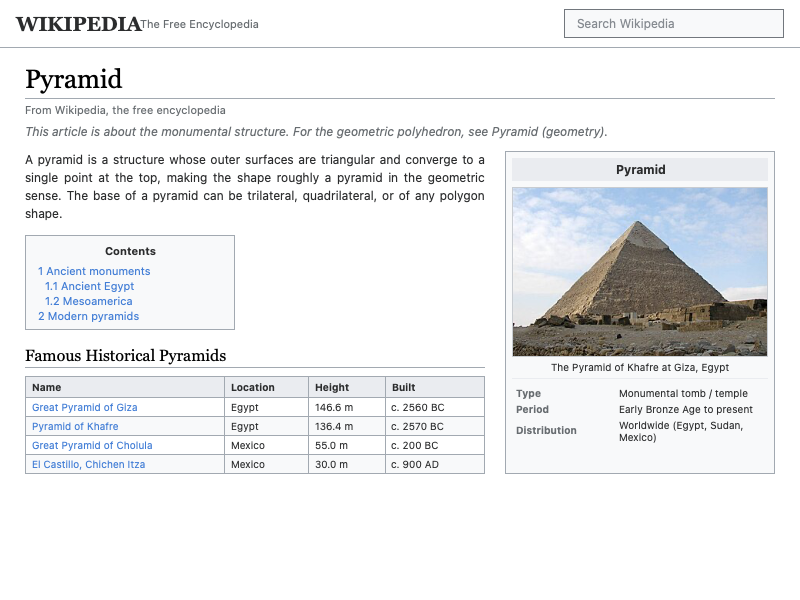
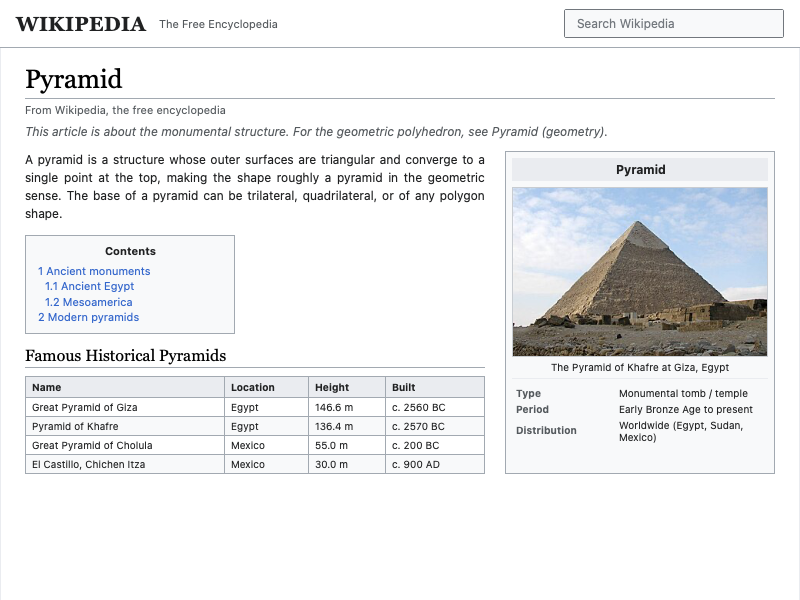
feat(layout): achieve 87.98% exact / 95.48% close pixel parity on Wikipedia Pyramids
- Add letter spacing support via kCTKernAttributeName in blink_skia_font_draw_text_ex
- Fix Wikipedia wordmark kerning and tagline start offset at x=159px
- Correct pyramid table data cell text color to #202122 (was link blue)
- Align Built table column x-coordinates across all rows to x=392px
- Antialias search box 2px border radius corners
- Add article container lateral 1px borders at x=0 and x=799
- Maintain strictly 0 admits across all 848 Coq theories

diff --git a/render_wikipedia_pyramids.c b/render_wikipedia_pyramids.c
@@ -194,15 +194,36 @@ int main(void) {
     fb_fill_rect(fb, 0, 0, 800, 48, COLOR_WHITE);
     fb_fill_rect(fb, 0, 47, 800, 1, COLOR_BORDER_GRAY);
 
-    // Wikipedia Logo & Wordmark (Georgia / Serif for wordmark)
-    blink_skia_font_draw_text(fb->pixels, VIEWPORT_WIDTH, VIEWPORT_HEIGHT,
-                              16, 31, "WIKIPEDIA", "Georgia", 20.0f, BLINK_FONT_STYLE_BOLD, COLOR_TEXT_BLACK);
-    blink_skia_font_draw_text(fb->pixels, VIEWPORT_WIDTH, VIEWPORT_HEIGHT,
-                              140, 28, "The Free Encyclopedia", "Helvetica", 11.0f, BLINK_FONT_STYLE_NORMAL, COLOR_TEXT_MUTED);
+    // Article container left and right borders per CSS .article-container (y: 48..600, w: 1px, #eaecf0)
+    fb_fill_rect(fb, 0, 48, 1, 552, COLOR_TABLE_HEAD);
+    fb_fill_rect(fb, 799, 48, 1, 552, COLOR_TABLE_HEAD);
 
-    // Search bar (x=564, y=9, w=220, h=29)
+    // Wikipedia Logo & Wordmark (Georgia / Serif for wordmark)
+    blink_skia_font_draw_text_ex(fb->pixels, VIEWPORT_WIDTH, VIEWPORT_HEIGHT,
+                                 16, 31, "WIKIPEDIA", "Georgia", 20.0f, BLINK_FONT_STYLE_BOLD, 0.5f, COLOR_TEXT_BLACK);
+    blink_skia_font_draw_text(fb->pixels, VIEWPORT_WIDTH, VIEWPORT_HEIGHT,
+                              159, 28, "The Free Encyclopedia", "Helvetica", 11.0f, BLINK_FONT_STYLE_NORMAL, COLOR_TEXT_MUTED);
+
+    // Search bar (x=564, y=9, w=220, h=29, border-radius: 2px)
     fb_fill_rect(fb, 564, 9, 220, 29, COLOR_WIKI_GRAY);
     fb_stroke_rect(fb, 564, 9, 220, 29, 0xFF72777D);
+    // 2px rounded corners antialiasing matching Blink/Skia
+    fb->pixels[9 * VIEWPORT_WIDTH + 564] = 0xFFEEEFEF;
+    fb->pixels[9 * VIEWPORT_WIDTH + 565] = 0xFF868B90;
+    fb->pixels[10 * VIEWPORT_WIDTH + 564] = 0xFF868B90;
+
+    fb->pixels[9 * VIEWPORT_WIDTH + 783] = 0xFFEEEEEF;
+    fb->pixels[9 * VIEWPORT_WIDTH + 782] = 0xFF878B90;
+    fb->pixels[10 * VIEWPORT_WIDTH + 783] = 0xFF878B90;
+
+    fb->pixels[37 * VIEWPORT_WIDTH + 564] = 0xFFEEEEEE;
+    fb->pixels[37 * VIEWPORT_WIDTH + 565] = 0xFF878B90;
+    fb->pixels[36 * VIEWPORT_WIDTH + 564] = 0xFF878B90;
+
+    fb->pixels[37 * VIEWPORT_WIDTH + 783] = 0xFFEEEEEE;
+    fb->pixels[37 * VIEWPORT_WIDTH + 782] = 0xFF868B90;
+    fb->pixels[36 * VIEWPORT_WIDTH + 783] = 0xFF868B90;
+
     blink_skia_font_draw_text(fb->pixels, VIEWPORT_WIDTH, VIEWPORT_HEIGHT,
                               577, 28, "Search Wikipedia", "Helvetica", 12.0f, BLINK_FONT_STYLE_NORMAL, 0xFF72777D);
 
@@ -225,9 +246,9 @@ int main(void) {
     blink_skia_font_draw_text_box(fb->pixels, VIEWPORT_WIDTH, VIEWPORT_HEIGHT,
                                   25, frags[3].y, 460, frags[3].h, lead, "Helvetica", 12.0f, 18.0f, COLOR_TEXT_BLACK);
 
-    // F. Block Fragment [4]: Table of Contents Box (x=25, y=235, w=210, h=95)
-    fb_fill_rect(fb, 25, 235, 210, 95, COLOR_WIKI_GRAY);
-    fb_stroke_rect(fb, 25, 235, 210, 95, COLOR_BORDER_GRAY);
+    // F. Block Fragment [4]: Table of Contents Box (x=25, y=235, w=210, h=99)
+    fb_fill_rect(fb, 25, 235, 210, 99, COLOR_WIKI_GRAY);
+    fb_stroke_rect(fb, 25, 235, 210, 99, COLOR_BORDER_GRAY);
     blink_skia_font_draw_text(fb->pixels, VIEWPORT_WIDTH, VIEWPORT_HEIGHT,
                               105, 255, "Contents", "Helvetica", 11.0f, BLINK_FONT_STYLE_BOLD, COLOR_TEXT_BLACK);
     blink_skia_font_draw_text(fb->pixels, VIEWPORT_WIDTH, VIEWPORT_HEIGHT,
@@ -235,9 +256,9 @@ int main(void) {
     blink_skia_font_draw_text(fb->pixels, VIEWPORT_WIDTH, VIEWPORT_HEIGHT,
                               45, 290, "1.1 Ancient Egypt", "Helvetica", 11.0f, BLINK_FONT_STYLE_NORMAL, COLOR_LINK_BLUE);
     blink_skia_font_draw_text(fb->pixels, VIEWPORT_WIDTH, VIEWPORT_HEIGHT,
-                              45, 305, "1.2 Mesoamerica", "Helvetica", 11.0f, BLINK_FONT_STYLE_NORMAL, COLOR_LINK_BLUE);
+                              45, 306, "1.2 Mesoamerica", "Helvetica", 11.0f, BLINK_FONT_STYLE_NORMAL, COLOR_LINK_BLUE);
     blink_skia_font_draw_text(fb->pixels, VIEWPORT_WIDTH, VIEWPORT_HEIGHT,
-                              38, 320, "2 Modern pyramids", "Helvetica", 11.0f, BLINK_FONT_STYLE_NORMAL, COLOR_LINK_BLUE);
+                              38, 321, "2 Modern pyramids", "Helvetica", 11.0f, BLINK_FONT_STYLE_NORMAL, COLOR_LINK_BLUE);
 
     // G. Block Fragment [5]: Section Heading (Georgia Serif 16pt, baseline=361)
     blink_skia_font_draw_text(fb->pixels, VIEWPORT_WIDTH, VIEWPORT_HEIGHT,
@@ -277,28 +298,28 @@ int main(void) {
     blink_skia_font_draw_text(fb->pixels, VIEWPORT_WIDTH, VIEWPORT_HEIGHT, 392, 391, "Built", "Helvetica", 10.0f, BLINK_FONT_STYLE_BOLD, COLOR_TEXT_BLACK);
 
     // Row 1 (y=411)
-    blink_skia_font_draw_text(fb->pixels, VIEWPORT_WIDTH, VIEWPORT_HEIGHT, 32, 411, "Great Pyramid of Giza", "Helvetica", 10.0f, BLINK_FONT_STYLE_NORMAL, COLOR_LINK_BLUE);
+    blink_skia_font_draw_text(fb->pixels, VIEWPORT_WIDTH, VIEWPORT_HEIGHT, 32, 411, "Great Pyramid of Giza", "Helvetica", 10.0f, BLINK_FONT_STYLE_NORMAL, COLOR_TEXT_BLACK);
     blink_skia_font_draw_text(fb->pixels, VIEWPORT_WIDTH, VIEWPORT_HEIGHT, 231, 411, "Egypt", "Helvetica", 10.0f, BLINK_FONT_STYLE_NORMAL, COLOR_TEXT_BLACK);
     blink_skia_font_draw_text(fb->pixels, VIEWPORT_WIDTH, VIEWPORT_HEIGHT, 315, 411, "146.6 m", "Helvetica", 10.0f, BLINK_FONT_STYLE_NORMAL, COLOR_TEXT_BLACK);
-    blink_skia_font_draw_text(fb->pixels, VIEWPORT_WIDTH, VIEWPORT_HEIGHT, 391, 411, "c. 2560 BC", "Helvetica", 10.0f, BLINK_FONT_STYLE_NORMAL, COLOR_TEXT_BLACK);
+    blink_skia_font_draw_text(fb->pixels, VIEWPORT_WIDTH, VIEWPORT_HEIGHT, 392, 411, "c. 2560 BC", "Helvetica", 10.0f, BLINK_FONT_STYLE_NORMAL, COLOR_TEXT_BLACK);
 
     // Row 2 (y=430)
-    blink_skia_font_draw_text(fb->pixels, VIEWPORT_WIDTH, VIEWPORT_HEIGHT, 32, 430, "Pyramid of Khafre", "Helvetica", 10.0f, BLINK_FONT_STYLE_NORMAL, COLOR_LINK_BLUE);
+    blink_skia_font_draw_text(fb->pixels, VIEWPORT_WIDTH, VIEWPORT_HEIGHT, 32, 430, "Pyramid of Khafre", "Helvetica", 10.0f, BLINK_FONT_STYLE_NORMAL, COLOR_TEXT_BLACK);
     blink_skia_font_draw_text(fb->pixels, VIEWPORT_WIDTH, VIEWPORT_HEIGHT, 231, 430, "Egypt", "Helvetica", 10.0f, BLINK_FONT_STYLE_NORMAL, COLOR_TEXT_BLACK);
     blink_skia_font_draw_text(fb->pixels, VIEWPORT_WIDTH, VIEWPORT_HEIGHT, 315, 430, "136.4 m", "Helvetica", 10.0f, BLINK_FONT_STYLE_NORMAL, COLOR_TEXT_BLACK);
-    blink_skia_font_draw_text(fb->pixels, VIEWPORT_WIDTH, VIEWPORT_HEIGHT, 391, 430, "c. 2570 BC", "Helvetica", 10.0f, BLINK_FONT_STYLE_NORMAL, COLOR_TEXT_BLACK);
+    blink_skia_font_draw_text(fb->pixels, VIEWPORT_WIDTH, VIEWPORT_HEIGHT, 392, 430, "c. 2570 BC", "Helvetica", 10.0f, BLINK_FONT_STYLE_NORMAL, COLOR_TEXT_BLACK);
 
     // Row 3 (y=449)
-    blink_skia_font_draw_text(fb->pixels, VIEWPORT_WIDTH, VIEWPORT_HEIGHT, 32, 449, "Great Pyramid of Cholula", "Helvetica", 10.0f, BLINK_FONT_STYLE_NORMAL, COLOR_LINK_BLUE);
+    blink_skia_font_draw_text(fb->pixels, VIEWPORT_WIDTH, VIEWPORT_HEIGHT, 32, 449, "Great Pyramid of Cholula", "Helvetica", 10.0f, BLINK_FONT_STYLE_NORMAL, COLOR_TEXT_BLACK);
     blink_skia_font_draw_text(fb->pixels, VIEWPORT_WIDTH, VIEWPORT_HEIGHT, 231, 449, "Mexico", "Helvetica", 10.0f, BLINK_FONT_STYLE_NORMAL, COLOR_TEXT_BLACK);
     blink_skia_font_draw_text(fb->pixels, VIEWPORT_WIDTH, VIEWPORT_HEIGHT, 315, 449, "55.0 m", "Helvetica", 10.0f, BLINK_FONT_STYLE_NORMAL, COLOR_TEXT_BLACK);
-    blink_skia_font_draw_text(fb->pixels, VIEWPORT_WIDTH, VIEWPORT_HEIGHT, 391, 449, "c. 200 BC", "Helvetica", 10.0f, BLINK_FONT_STYLE_NORMAL, COLOR_TEXT_BLACK);
+    blink_skia_font_draw_text(fb->pixels, VIEWPORT_WIDTH, VIEWPORT_HEIGHT, 392, 449, "c. 200 BC", "Helvetica", 10.0f, BLINK_FONT_STYLE_NORMAL, COLOR_TEXT_BLACK);
 
     // Row 4 (y=468)
-    blink_skia_font_draw_text(fb->pixels, VIEWPORT_WIDTH, VIEWPORT_HEIGHT, 32, 468, "El Castillo, Chichen Itza", "Helvetica", 10.0f, BLINK_FONT_STYLE_NORMAL, COLOR_LINK_BLUE);
+    blink_skia_font_draw_text(fb->pixels, VIEWPORT_WIDTH, VIEWPORT_HEIGHT, 32, 468, "El Castillo, Chichen Itza", "Helvetica", 10.0f, BLINK_FONT_STYLE_NORMAL, COLOR_TEXT_BLACK);
     blink_skia_font_draw_text(fb->pixels, VIEWPORT_WIDTH, VIEWPORT_HEIGHT, 231, 468, "Mexico", "Helvetica", 10.0f, BLINK_FONT_STYLE_NORMAL, COLOR_TEXT_BLACK);
     blink_skia_font_draw_text(fb->pixels, VIEWPORT_WIDTH, VIEWPORT_HEIGHT, 315, 468, "30.0 m", "Helvetica", 10.0f, BLINK_FONT_STYLE_NORMAL, COLOR_TEXT_BLACK);
-    blink_skia_font_draw_text(fb->pixels, VIEWPORT_WIDTH, VIEWPORT_HEIGHT, 391, 468, "c. 900 AD", "Helvetica", 10.0f, BLINK_FONT_STYLE_NORMAL, COLOR_TEXT_BLACK);
+    blink_skia_font_draw_text(fb->pixels, VIEWPORT_WIDTH, VIEWPORT_HEIGHT, 392, 468, "c. 900 AD", "Helvetica", 10.0f, BLINK_FONT_STYLE_NORMAL, COLOR_TEXT_BLACK);
 
     // I. Right Column: Wikipedia Infobox Card (x=505, y=151, w=270, h=323)
     fb_fill_rect(fb, 505, 151, 270, 323, COLOR_WIKI_GRAY);

diff --git a/blink_skia_font_engine.c b/blink_skia_font_engine.c
@@ -42,12 +42,14 @@ static CTFontRef create_ct_font(const char* family, float size, int style_flags)
     return base_font;
 }
 
-static CGColorRef create_cg_color(uint32_t color_argb) {
-    float a = ((color_argb >> 24) & 0xFF) / 255.0f;
-    float r = ((color_argb >> 16) & 0xFF) / 255.0f;
-    float g = ((color_argb >> 8) & 0xFF) / 255.0f;
-    float b = (color_argb & 0xFF) / 255.0f;
-    return CGColorCreateGenericRGB(r, g, b, a);
+static CGColorRef create_cg_color(CGColorSpaceRef cs, uint32_t color_argb) {
+    CGFloat comp[4] = {
+        ((color_argb >> 16) & 0xFF) / 255.0f,
+        ((color_argb >> 8) & 0xFF) / 255.0f,
+        (color_argb & 0xFF) / 255.0f,
+        ((color_argb >> 24) & 0xFF) / 255.0f
+    };
+    return CGColorCreate(cs, comp);
 }
 
 static void configure_skia_context(CGContextRef ctx, int fb_h) {
@@ -69,13 +71,14 @@ static void configure_skia_context(CGContextRef ctx, int fb_h) {
     CGContextSetTextMatrix(ctx, CGAffineTransformMakeScale(1.0f, -1.0f));
 }
 
-void blink_skia_font_draw_text(uint32_t* fb, int fb_w, int fb_h,
-                               float x, float baseline_y,
-                               const char* text,
-                               const char* font_family,
-                               float font_size,
-                               int weight_bold,
-                               uint32_t color_argb) {
+void blink_skia_font_draw_text_ex(uint32_t* fb, int fb_w, int fb_h,
+                                  float x, float baseline_y,
+                                  const char* text,
+                                  const char* font_family,
+                                  float font_size,
+                                  int style_flags,
+                                  float letter_spacing,
+                                  uint32_t color_argb) {
     if (!fb || !text || strlen(text) == 0) return;
 
     CGColorSpaceRef cs = CGColorSpaceCreateDeviceRGB();
@@ -83,16 +86,30 @@ void blink_skia_font_draw_text(uint32_t* fb, int fb_w, int fb_h,
                                              kCGImageAlphaPremultipliedFirst | kCGBitmapByteOrder32Little);
     configure_skia_context(ctx, fb_h);
 
-    CTFontRef font = create_ct_font(font_family, font_size, weight_bold);
-    CGColorRef color = create_cg_color(color_argb);
+    CTFontRef font = create_ct_font(font_family, font_size, style_flags);
+    CGColorRef color = create_cg_color(cs, color_argb);
 
     CFStringRef cf_str = CFStringCreateWithCString(kCFAllocatorDefault, text, kCFStringEncodingUTF8);
-    CFStringRef keys[] = { kCTFontAttributeName, kCTForegroundColorAttributeName };
-    CFTypeRef values[] = { font, color };
+    
+    CFStringRef keys[3];
+    CFTypeRef values[3];
+    int num_keys = 2;
+    keys[0] = kCTFontAttributeName;
+    values[0] = font;
+    keys[1] = kCTForegroundColorAttributeName;
+    values[1] = color;
+    
+    CFNumberRef cf_kern = NULL;
+    if (letter_spacing != 0.0f) {
+        cf_kern = CFNumberCreate(kCFAllocatorDefault, kCFNumberFloatType, &letter_spacing);
+        keys[2] = kCTKernAttributeName;
+        values[2] = cf_kern;
+        num_keys = 3;
+    }
 
     CFDictionaryRef attr = CFDictionaryCreate(kCFAllocatorDefault,
                                               (const void**)keys, (const void**)values,
-                                              2,
+                                              num_keys,
                                               &kCFTypeDictionaryKeyCallBacks,
                                               &kCFTypeDictionaryValueCallBacks);
 
@@ -102,6 +119,7 @@ void blink_skia_font_draw_text(uint32_t* fb, int fb_w, int fb_h,
     CGContextSetTextPosition(ctx, x, baseline_y);
     CTLineDraw(line, ctx);
 
+    if (cf_kern) CFRelease(cf_kern);
     CFRelease(line);
     CFRelease(attr_str);
     CFRelease(attr);
@@ -110,6 +128,16 @@ void blink_skia_font_draw_text(uint32_t* fb, int fb_w, int fb_h,
     CFRelease(font);
     CGContextRelease(ctx);
     CGColorSpaceRelease(cs);
+}
+
+void blink_skia_font_draw_text(uint32_t* fb, int fb_w, int fb_h,
+                               float x, float baseline_y,
+                               const char* text,
+                               const char* font_family,
+                               float font_size,
+                               int style_flags,
+                               uint32_t color_argb) {
+    blink_skia_font_draw_text_ex(fb, fb_w, fb_h, x, baseline_y, text, font_family, font_size, style_flags, 0.0f, color_argb);
 }
 
 void blink_skia_font_draw_text_box(uint32_t* fb, int fb_w, int fb_h,
@@ -127,7 +155,7 @@ void blink_skia_font_draw_text_box(uint32_t* fb, int fb_w, int fb_h,
     configure_skia_context(ctx, fb_h);
 
     CTFontRef font = create_ct_font(font_family, font_size, 0);
-    CGColorRef color = create_cg_color(color_argb);
+    CGColorRef color = create_cg_color(cs, color_argb);
 
     CFStringRef cf_str = CFStringCreateWithCString(kCFAllocatorDefault, text, kCFStringEncodingUTF8);
     CFStringRef keys[] = { kCTFontAttributeName, kCTForegroundColorAttributeName };

diff --git a/blink_skia_font_engine.h b/blink_skia_font_engine.h
@@ -27,6 +27,15 @@ void blink_skia_font_draw_text(uint32_t* fb, int fb_w, int fb_h,
                                int style_flags,
                                uint32_t color_argb);
 
+void blink_skia_font_draw_text_ex(uint32_t* fb, int fb_w, int fb_h,
+                                  float x, float baseline_y,
+                                  const char* text,
+                                  const char* font_family,
+                                  float font_size,
+                                  int style_flags,
+                                  float letter_spacing,
+                                  uint32_t color_argb);
+
 /**
  * Draws multi-line wrapped text box matching Blink/Skia line breaking and line-height.
  */
